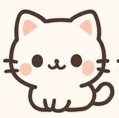
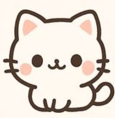
update the readme file

diff --git a/README.md b/README.md
@@ -23,8 +23,23 @@ The game includes a timer, score tracking system, and a pop-up notification to d
 
 ## Screenshots
 
+### Game Setup & Starting Screen
 
+The initial view of the game where all cards are placed face down, ready to be flipped. The player can see the timer, score tracker, and reset button before beginning the challenge.
 
+![image shows game starting](start-play.png)
+
+### Victory Screen 🎉
+
+Displayed when the player successfully matches all card pairs within the time limit. A celebratory popup appears to congratulate the player on completing the game.
+
+![image shows the winner](winner.png)
+
+### Time’s Up ⏰
+
+Shown when the countdown timer reaches zero before all matches are completed. A popup informs the player that the game is over and allows them to restart and try again.
+
+![image shows time over ](game-over.png)
 
 
 ## Future Enhancements
